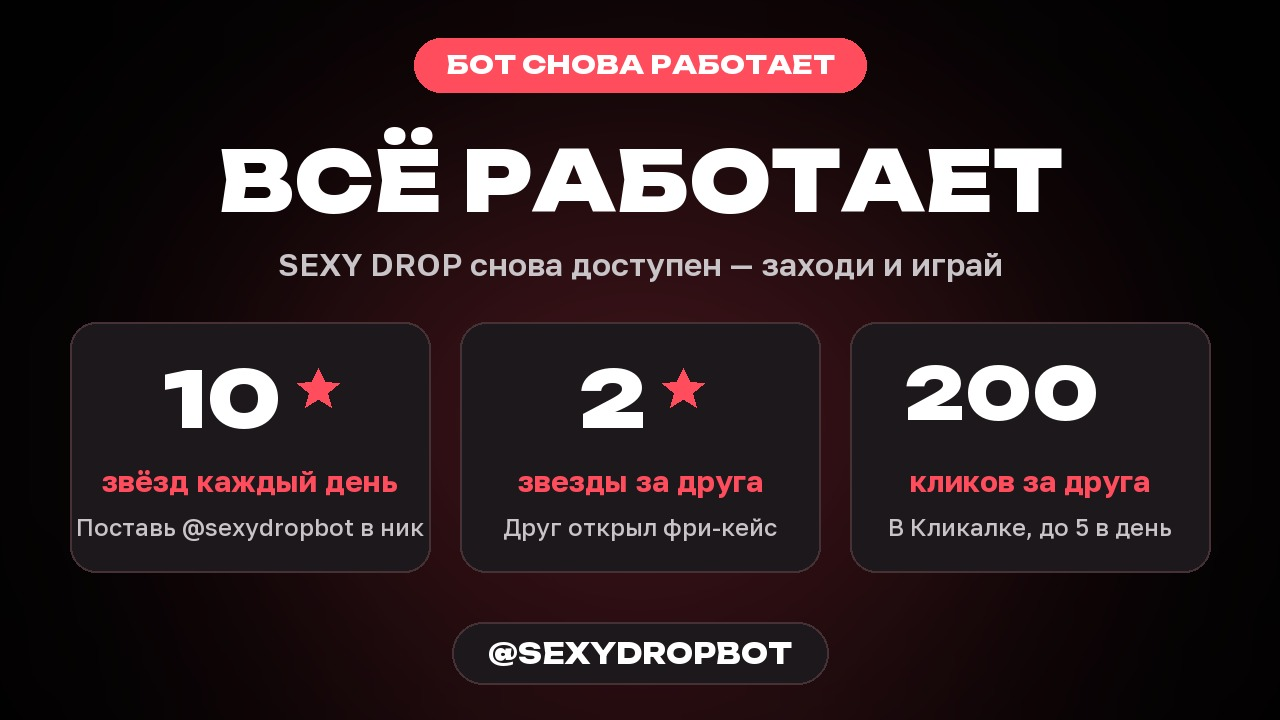
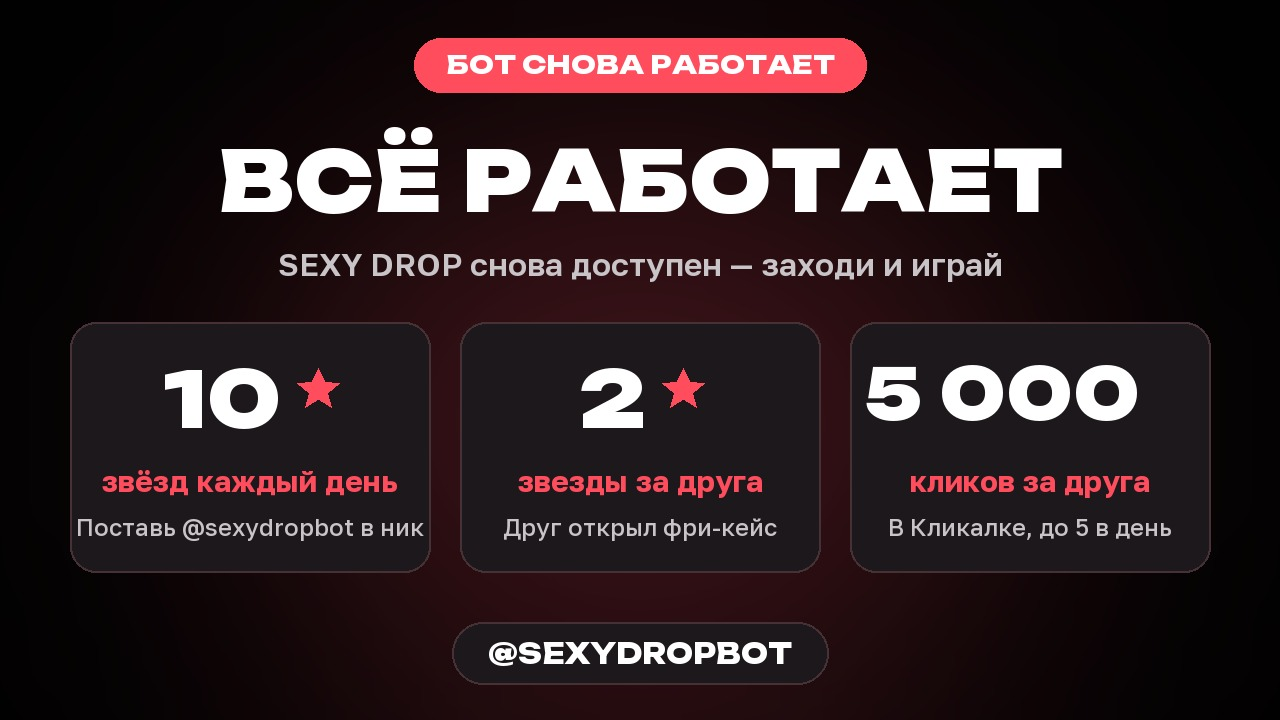
feat(clicker): friend reward 5000 clicks (10000 with Premium), matte red invite post + broadcast preset

Changed region(s): [[0.6562, 0.4889, 0.9062, 0.6111]]

diff --git a/src/screens/ClickerScreen.tsx b/src/screens/ClickerScreen.tsx
@@ -450,7 +450,7 @@ export function ClickerScreen() {
         {state?.referral && (
           <div className={styles.invite}>
             <p className={styles.inviteText}>
-              Пригласи друга: <b>+{state.referral.clicks} кликов</b> (с Premium <b>+{state.referral.clicks_premium}</b>). Друг должен открыть бесплатный кейс, иначе
+              Пригласи друга: <b>+{fmt(state.referral.clicks)} кликов</b> (с Premium <b>+{fmt(state.referral.clicks_premium)}</b>). Друг должен открыть бесплатный кейс, иначе
               бонус не засчитается. Лимит {state.referral.daily_max} друзей в день, сегодня {state.referral.today}/{state.referral.daily_max}
               {state.referral.waiting ? `, ждут кейса: ${state.referral.waiting}` : ''}.
             </p>

diff --git a/backend/app/services/ref_share.py b/backend/app/services/ref_share.py
@@ -530,7 +530,7 @@ def clicker_launch_caption(premium: bool = True) -> str:
         f"{e('spark')} <b>Условия</b>\n"
         f"{e('dot')} участие бесплатное, ничего вкладывать не нужно\n"
         f"{e('shield')} клики считает сервер, не быстрее 8 в секунду; автокликеры не засчитываются\n"
-        f"{e('friends')} пригласи друга: +200 кликов, с Premium +300 (друг должен открыть бесплатный кейс, до 5 друзей в день)\n"
+        f"{e('friends')} пригласи друга: +5 000 кликов, с Premium +10 000 (друг должен открыть бесплатный кейс, до 5 друзей в день)\n"
         f"{e('bolt')} ранги растут с кликами: от 5 000 до 3 000 000\n\n"
         f"{e('check')} @sexydropbot — «Игры» → «Кликалка»"
     )
@@ -580,7 +580,7 @@ def back_online_caption(premium: bool = True) -> str:
         f"{e('spark')} <b>Не забудь про бонусы</b>\n"
         f"{e('dot')} поставь <b>@sexydropbot</b> в ник — получай <b>10 звёзд каждый день</b>\n"
         f"{e('friends')} приглашай друзей: <b>2 звезды</b> за каждого, кто откроет бесплатный кейс\n"
-        f"{e('play')} в Кликалке за друга <b>+200 кликов</b>, с Premium +300 (до 5 друзей в день)\n\n"
+        f"{e('play')} в Кликалке за друга <b>+5 000 кликов</b>, с Premium +10 000 (до 5 друзей в день)\n\n"
         f"{e('free')} Первый кейс — бесплатно!\n"
         f"{e('check')} @sexydropbot"
     )
@@ -718,3 +718,79 @@ async def send_update_to_admins_once(delay_s: float = 110.0) -> None:
                     await session.commit()
     except Exception as exc:  # noqa: BLE001
         log.warning("update post to admins failed: %s", exc)
+
+
+# ---------------------------------------------------------------- пост «награды за друга в Кликалке»
+
+INVITE_CLICKS_VERSION = "2026-11-13-invite-clicks-v1"
+
+
+def invite_clicks_caption(premium: bool = True) -> str:
+    """Готовый пост для канала: за друга в Кликалке 5 000 кликов, с Premium 10 000."""
+    from app.services.telegram_bot import em
+
+    def e(name: str) -> str:
+        return em(name, premium)
+
+    return (
+        f"{e('play')} <b>Кликалка: награды за друзей выросли!</b>\n\n"
+        f"{e('friends')} Пригласи друга и получи:\n"
+        f"{e('dot')} <b>5 000 кликов</b>: друг без Premium\n"
+        f"{e('spark')} <b>10 000 кликов</b>: друг с Premium\n\n"
+        f"{e('check')} Друг должен открыть бесплатный кейс, до 5 друзей в день\n"
+        f"{e('trophy')} Клики идут в топ марафона: 1 место NFT + 5 TON\n\n"
+        f"{e('bolt')} @sexydropbot, «Игры» → «Кликалка»"
+    )
+
+
+async def send_invite_clicks_post(chat_id: int) -> bool:
+    if not get_settings().bot_token:
+        return False
+    path = photo_path("invite-clicks")
+    if path is None:
+        log.warning("invite-clicks photo not found")
+        return False
+    markup = json.dumps({"inline_keyboard": [[{"text": "🕹 Играть в Кликалку", "url": "https://t.me/sexydropbot"}]]}, ensure_ascii=False)
+    body: dict = {}
+    async with httpx.AsyncClient(timeout=60.0) as client:
+        await client.post(
+            f"{_api()}/sendMessage",
+            json={"chat_id": chat_id, "text": "<b>Готовый пост: награды за друзей в Кликалке</b> — скопируйте или перешлите в канал 👇", "parse_mode": "HTML"},
+        )
+        for premium in (True, False):
+            data = {"chat_id": str(chat_id), "caption": invite_clicks_caption(premium), "parse_mode": "HTML", "reply_markup": markup}
+            body = (await client.post(f"{_api()}/sendPhoto", data=data, files={"photo": ("invite.jpg", path.read_bytes(), "image/jpeg")})).json()
+            if body.get("ok"):
+                break
+            log.warning("invite-clicks post (premium=%s) to %s failed: %s", premium, chat_id, body.get("description"))
+    return bool(body.get("ok"))
+
+
+async def send_invite_clicks_to_admins_once(delay_s: float = 130.0) -> None:
+    """После деплоя присылает админам пост про награды за друзей (один раз на версию)."""
+    await asyncio.sleep(delay_s)
+    if not get_settings().bot_token:
+        return
+    from sqlalchemy import func, select
+
+    from app.api.odds import ADMIN_USERNAMES
+    from app.core.db import get_session_factory
+    from app.models.economy import UserMeta
+    from app.models.user import User
+    from app.services.economy_core import ensure_account
+
+    try:
+        async with get_session_factory()() as session:
+            admins = (
+                await session.execute(select(User).where(func.lower(User.username).in_(sorted(ADMIN_USERNAMES))))
+            ).scalars().all()
+            for admin in admins:
+                await ensure_account(session, admin.id)
+                meta = await session.get(UserMeta, admin.id)
+                if meta is None or (meta.quests_claimed or {}).get("_inviteclicks") == INVITE_CLICKS_VERSION:
+                    continue
+                if await send_invite_clicks_post(admin.telegram_id):
+                    meta.quests_claimed = {**(meta.quests_claimed or {}), "_inviteclicks": INVITE_CLICKS_VERSION}
+                    await session.commit()
+    except Exception as exc:  # noqa: BLE001
+        log.warning("invite-clicks post to admins failed: %s", exc)

diff --git a/backend/app/services/broadcast_service.py b/backend/app/services/broadcast_service.py
@@ -37,6 +37,7 @@ CAPTION_MAX = 1024  # лимит подписи к фото в Telegram
 PRESETS: dict[str, dict[str, str]] = {
     "clicker": {"label": "Кликалка: запуск (картинка + пост)", "photo": "clicker-photo.jpg", "button": "🕹 Играть в Кликалку"},
     "update": {"label": "Большое обновление (картинка + пост)", "photo": "update-photo.jpg", "button": "🎮 Играть"},
+    "invite_clicks": {"label": "Кликалка: 5 000 / 10 000 за друга (картинка + пост)", "photo": "invite-clicks-photo.jpg", "button": "🕹 Играть в Кликалку"},
     "maintenance": {"label": "Технические работы: 1–2 дня (текст)", "photo": "", "button": ""},
 }
 
@@ -46,6 +47,8 @@ def preset_text(preset: str, premium: bool = False) -> str:
 
     if preset == "clicker":
         return ref_share.clicker_launch_caption(premium)
+    if preset == "invite_clicks":
+        return ref_share.invite_clicks_caption(premium)
     if preset == "update":
         return ref_share.update_caption(premium)
     if preset == "maintenance":

diff --git a/backend/app/main.py b/backend/app/main.py
@@ -36,6 +36,9 @@ async def lifespan(_app: FastAPI) -> AsyncIterator[None]:
         from app.services.ref_share import send_update_to_admins_once
 
         asyncio.create_task(send_update_to_admins_once())
+        from app.services.ref_share import send_invite_clicks_to_admins_once
+
+        asyncio.create_task(send_invite_clicks_to_admins_once())
         # раз в час проверяем, что игроки не убрали ник бота из профиля
         from app.services.tag_quest import recheck_loop
 
